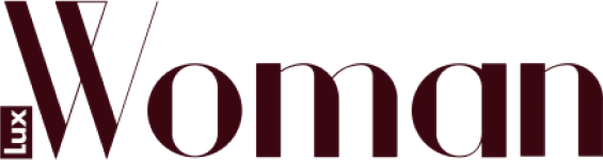
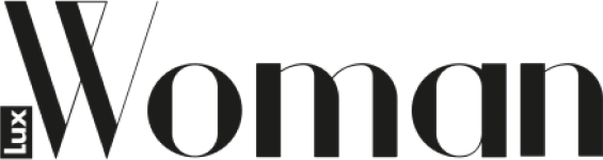
metodo-liv: logótipos dos media nas cores originais
Claude-Session: https://claude.ai/code/session_01LfWUhmvU7QtH1aJXweT9go

diff --git a/index.html b/index.html
@@ -221,10 +221,10 @@ p + p{margin-top:16px}
 /* media em destaque: nomes em serif grande, separados por filetes, como uma faixa de "visto em" */
 .media{margin-top:34px;padding-top:22px;border-top:1px solid var(--linha)}
 .media span{font:600 .72rem/1.6 var(--f-corpo);letter-spacing:.24em;text-transform:uppercase;color:var(--marsala)}
-/* logótipos monocromáticos a vinho; alturas compensadas para terem o mesmo peso ótico */
+/* logótipos nas cores originais de cada marca (pedido dele); alturas compensadas para terem o mesmo peso ótico */
 .media ul{list-style:none;display:flex;flex-wrap:nowrap;align-items:center;justify-content:space-between;gap:clamp(10px,2.4vw,28px);margin:16px 0 0;padding:0}
 .media li{display:flex;align-items:center;flex:0 1 auto;min-width:0}
-.media img{display:block;width:auto;max-width:100%;height:calc(var(--h,30px)*var(--k,.86));opacity:.88}
+.media img{display:block;width:auto;max-width:100%;height:calc(var(--h,30px)*var(--k,.86))}
 @media (max-width:1100px){.media{--k:.74}}
 @media (max-width:560px){.media{--k:.56}}
 .testemunhos{display:grid;grid-template-columns:1fr 1fr;gap:24px;margin-top:40px}
@@ -365,8 +365,6 @@ p + p{margin-top:16px}
   /* menu: sublinhado que cresce da esquerda */
   .topo__nav a{background:linear-gradient(currentColor,currentColor) left bottom/0 1px no-repeat;padding-bottom:4px;transition:background-size .4s var(--ease-suave),opacity .3s}
   .topo__nav a:hover{background-size:100% 1px}
-  .media img{transition:opacity .3s}
-  .media li:hover img{opacity:1}
 }
 
 @media (prefers-reduced-motion:reduce){
@@ -470,7 +468,7 @@ p + p{margin-top:16px}
           <div><strong>U. Virgínia</strong><span>formação em marca pessoal</span></div>
           <div><strong>2 livros</strong><span>publicados</span></div>
         </div>
-        <!-- Logótipos tirados de mafaldaalmeida.com ("Parceiros de valor") e passados a vinho em PNG/WebP transparente -->
+        <!-- Logótipos tirados de mafaldaalmeida.com ("Parceiros de valor") , cores originais, recortados e sem fundo -->
         <div class="media rv">
           <span>Já esteve na</span>
           <ul>
